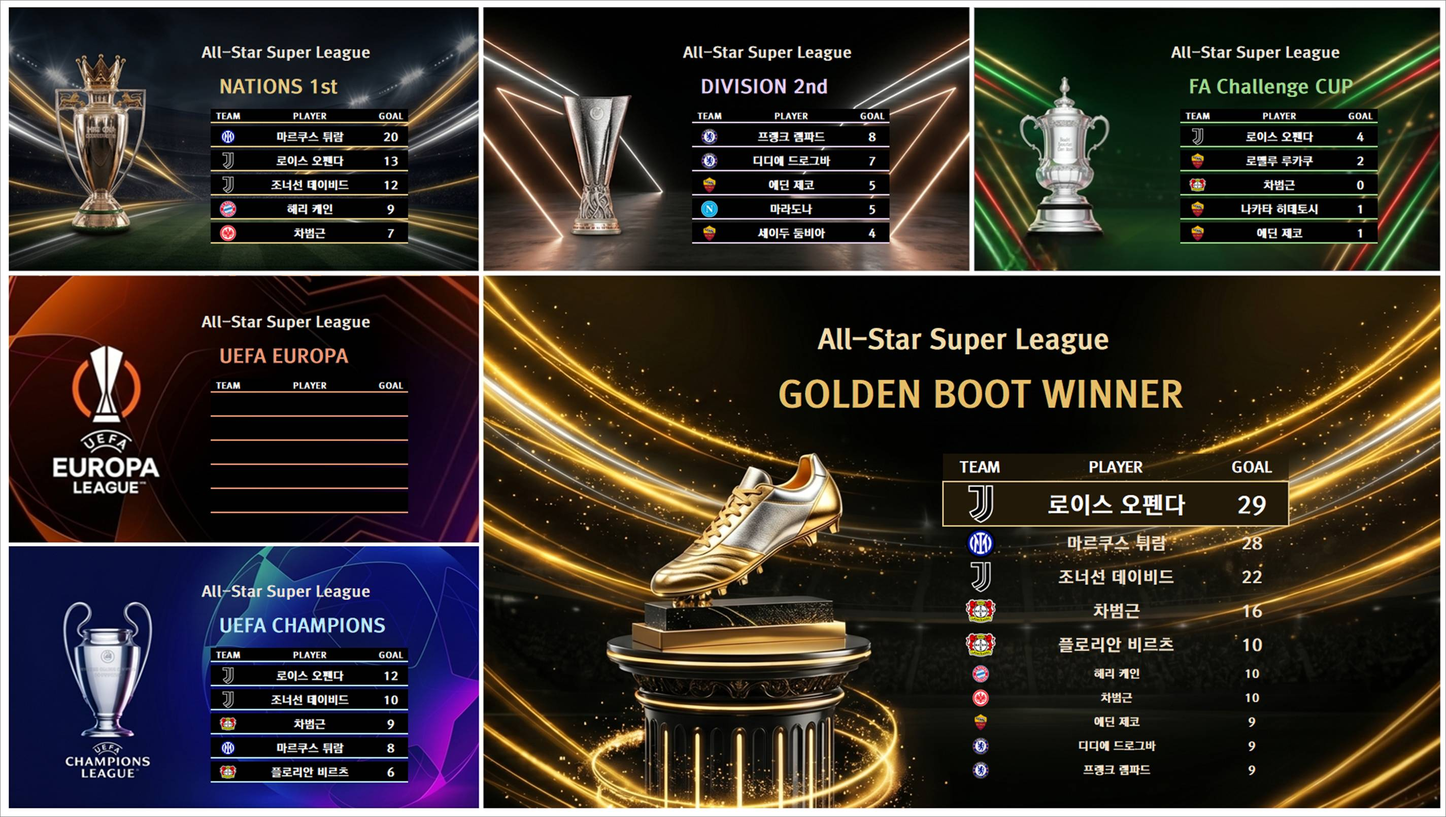
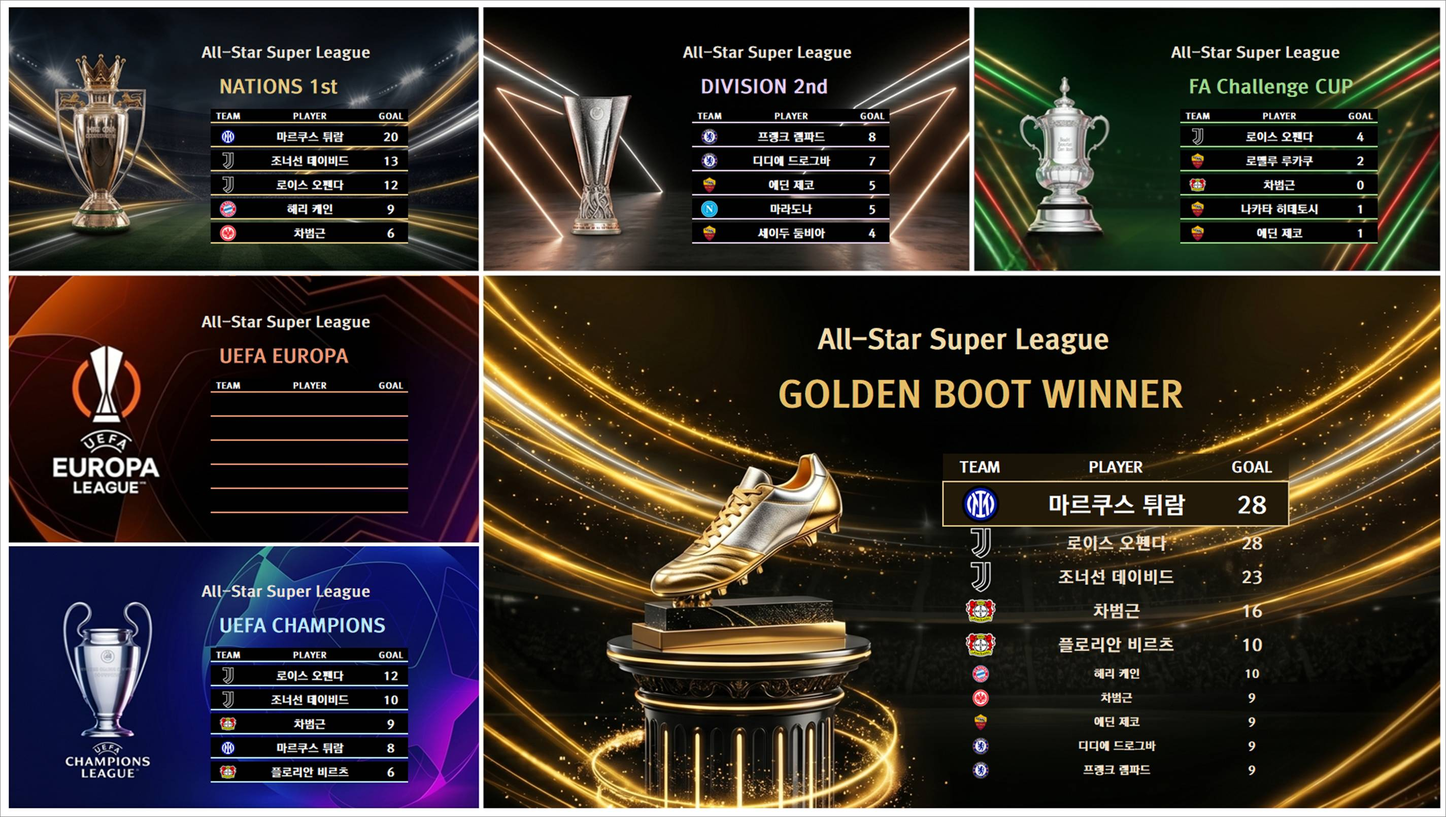
Optimize: 01:03:42

diff --git a/index.html b/index.html
@@ -67,13 +67,13 @@
     </div>
     
     <div class="container">
-        <div class="card"><h2>🥇 1부 리그 순위표</h2><img src="https://i.ibb.co/WvPCqF84/f76436f70ba2.jpg" alt="1부 리그"></div>
+        <div class="card"><h2>🥇 1부 리그 순위표</h2><img src="https://i.ibb.co/svXymYkh/2e29e2b4f16f.jpg" alt="1부 리그"></div>
         <div class="card"><h2>🥈 2부 리그 순위표</h2><img src="https://i.ibb.co/355t0FcC/38eccfb8b0e0.jpg" alt="2부 리그"></div>
         <div class="card"><h2>🌟 UCL 그룹스테이지</h2><img src="https://i.ibb.co/VbfG4FV/258c27092a21.jpg" alt="UCL 조별"></div>
         <div class="card"><h2>🏆 UCL 토너먼트 대진표</h2><img src="https://i.ibb.co/n8s5BRyL/b9a11dda8ecb.jpg" alt="UCL 토너"></div>
         <div class="card"><h2>🎖 UEL 토너먼트 대진표</h2><img src="https://i.ibb.co/zHC97Nxq/a2267226ccb8.jpg" alt="UEL 토너"></div>
         <div class="card"><h2>🏅 FA컵 토너먼트 대진표</h2><img src="https://i.ibb.co/Z653m5hL/aecb38c6ed90.jpg" alt="FA컵"></div>
-        <div class="card"><h2>👑 GOLDEN BOOT (통합 득점왕)</h2><img src="https://i.ibb.co/VWf4TpGx/827c6fb58ff3.jpg" alt="득점왕"></div>
+        <div class="card"><h2>👑 GOLDEN BOOT (통합 득점왕)</h2><img src="https://i.ibb.co/Pssy7vy7/92daad8ebe2d.jpg" alt="득점왕"></div>
     </div>
     
     <footer>

diff --git a/올스타리그 경기기록 불러오기/올스타리그경기기록조회.py b/올스타리그 경기기록 불러오기/올스타리그경기기록조회.py
@@ -12,9 +12,8 @@ league_players = [
     "ZD장인흥미니7", "조바리안", "kingdom21", "오스트리아", "은안", "Eve올로"
 ]
 
-# 💡 수정된 부분: 시작 시간 설정 (2026-04-21 23:00:00)
-# API의 날짜 형식(YYYY-MM-DDTHH:MM:SS)과 맞춰서 비교합니다.
-TARGET_START_DATETIME = "2026-04-21T23:00:00"
+# 💡 수정된 부분: 2026년 4월 25일 오전 3시 정각
+TARGET_START_DATETIME = "2026-04-26T12:52:00"
 
 def get_ouid(nickname):
     url = f"https://open.api.nexon.com/fconline/v1/id?nickname={nickname}"
@@ -36,7 +35,7 @@ match_results = []
 
 print(f"\n✅ 확인된 참가자: {len(player_map)}명. 경기 기록 수집 시작...")
 
-# 2. 각 유저별 경기 ID 수집 (최근 500경기)
+# 2. 각 유저별 경기 ID 수집
 for name, ouid in player_map.items():
     print(f"📊 {name}님의 최근 '클래식 1on1(40)' 기록 조회 중...")
     offset = 0
@@ -53,13 +52,24 @@ for name, ouid in player_map.items():
 print(f"\n🚀 총 {len(all_league_matches)}개의 경기 중 리그 내전 선별 및 데이터 추출 시작...")
 
 for i, m_id in enumerate(all_league_matches):
+    if (i + 1) % 50 == 0:
+        print(f"... {i + 1}개 경기 상세 조회 완료 ...")
+        
+    time.sleep(0.1) # 서버 차단 방지용 안전장치
+    
     d_res = requests.get(f"https://open.api.nexon.com/fconline/v1/match-detail?matchid={m_id}", headers=headers)
-    if d_res.status_code != 200: continue
+    
+    if d_res.status_code == 429:
+        print("⏳ API 요청 한도 도달! 5초간 휴식합니다...")
+        time.sleep(5)
+        continue
+    elif d_res.status_code != 200: 
+        continue
     
     data = d_res.json()
     m_date_raw = data.get('matchDate', '') 
     
-    # 💡 수정된 부분: 문자열 비교를 통해 4월 21일 23시 이전 경기는 제외
+    # 💡 여기서 4월 26일 새벽 3시 이전 경기들을 걸러냅니다.
     if m_date_raw < TARGET_START_DATETIME: continue
     
     m_datetime_pretty = m_date_raw.replace('T', ' ')
@@ -92,12 +102,11 @@ for i, m_id in enumerate(all_league_matches):
             '홈결과': result1,
             '득점명단': ", ".join(scorers)
         })
-    time.sleep(0.05)
 
 # 4. 저장 및 정렬
 df = pd.DataFrame(match_results)
 if not df.empty:
     df = df.sort_values(by='일시', ascending=False)
     
-df.to_csv("AllStar_League_Match_Verify_With_Time.csv", index=False, encoding="utf-8-sig")
+df.to_csv("AllStar_League_Match_Verify_Latest.csv", index=False, encoding="utf-8-sig")
 print(f"\n🎉 검증 데이터 저장 완료! (기준: {TARGET_START_DATETIME} 이후)")
